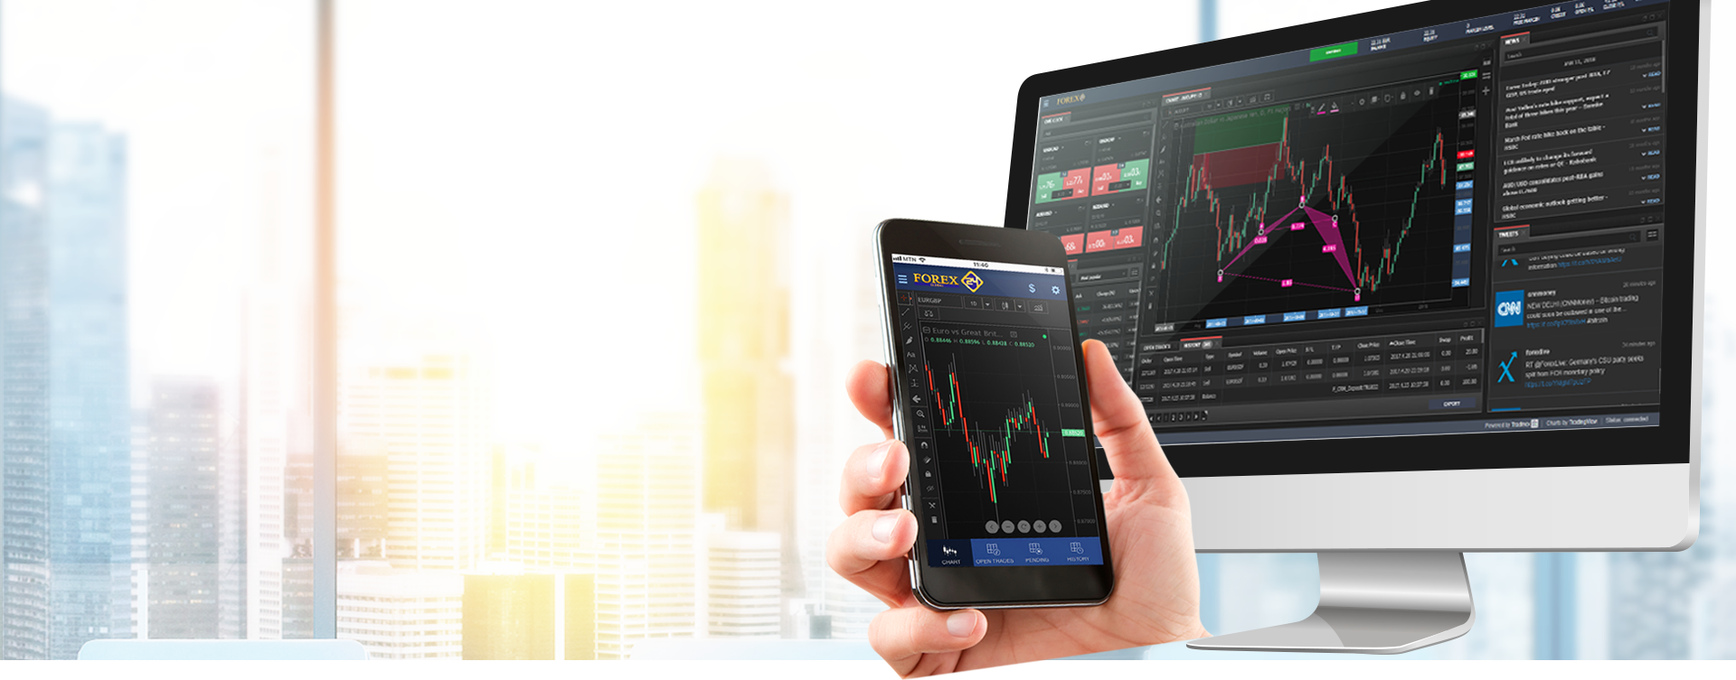
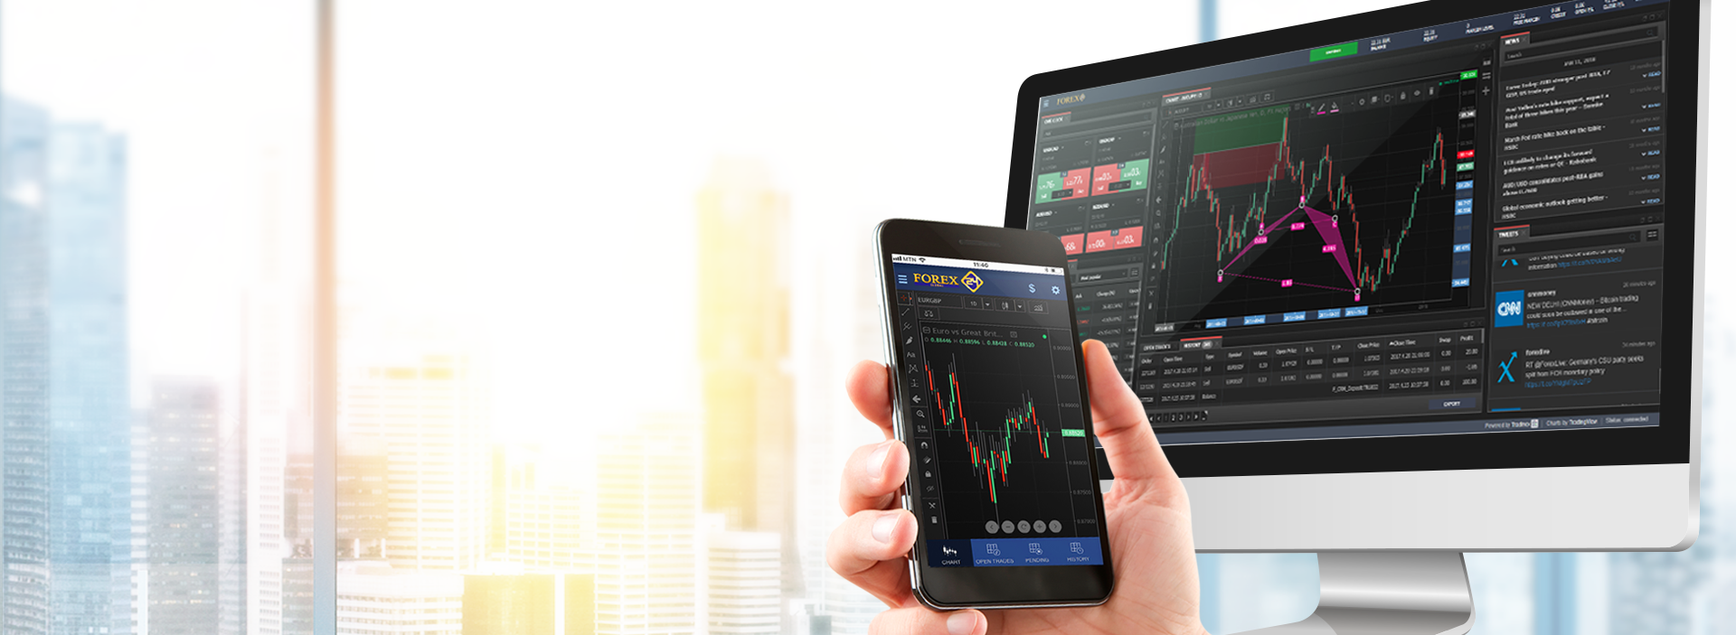
t

diff --git a/forex-lp/css/style.min.css b/forex-lp/css/style.min.css
@@ -1,1 +1,1 @@
-.acc,.app__top,.footer,.header__form b,.miss,.trading h1{text-align:center}.footer b,.form__btn,.miss__center,.trading h1 span{text-transform:uppercase}body{min-width:320px;margin:0}.container{width:1100px;margin:auto}.container--header{width:90%}.visually-hidden{position:absolute;clip:rect(0 0 0 0)}@media screen and (max-width:1200px){.container{width:95%}}@font-face{font-family:'SF UI Text';src:url(SFUIText-HeavyItalic.eot);src:local("SF UI Text Heavy Italic"),local("SFUIText-HeavyItalic"),url(SFUIText-HeavyItalic.eot?#iefix) format("embedded-opentype"),url(SFUIText-HeavyItalic.woff) format("woff"),url(SFUIText-HeavyItalic.ttf) format("truetype");font-weight:300;font-style:italic}@font-face{font-family:'SF UI Text';src:url(SFUIText-LightItalic.eot);src:local("SF UI Text Light Italic"),local("SFUIText-LightItalic"),url(SFUIText-LightItalic.eot?#iefix) format("embedded-opentype"),url(SFUIText-LightItalic.woff) format("woff"),url(SFUIText-LightItalic.ttf) format("truetype");font-weight:300;font-style:italic}@font-face{font-family:'SF UI Text';src:url(SFUIText-MediumItalic.eot);src:local("SF UI Text Medium Italic"),local("SFUIText-MediumItalic"),url(SFUIText-MediumItalic.eot?#iefix) format("embedded-opentype"),url(SFUIText-MediumItalic.woff) format("woff"),url(SFUIText-MediumItalic.ttf) format("truetype");font-weight:500;font-style:italic}@font-face{font-family:'SF UI Display';src:url(SFUIDisplay-Medium.eot);src:local("SF UI Display Medium"),local("SFUIDisplay-Medium"),url(SFUIDisplay-Medium.eot?#iefix) format("embedded-opentype"),url(SFUIDisplay-Medium.woff) format("woff"),url(SFUIDisplay-Medium.ttf) format("truetype");font-weight:500;font-style:normal}@font-face{font-family:'SF UI Display';src:url(SFUIDisplay-Regular.eot);src:local("SF UI Display Regular"),local("SFUIDisplay-Regular"),url(SFUIDisplay-Regular.eot?#iefix) format("embedded-opentype"),url(SFUIDisplay-Regular.woff) format("woff"),url(SFUIDisplay-Regular.ttf) format("truetype");font-weight:400;font-style:normal}@font-face{font-family:'SF UI Display';src:url(SFUIDisplay-Light.eot);src:local("SF UI Display Light"),local("SFUIDisplay-Light"),url(SFUIDisplay-Light.eot?#iefix) format("embedded-opentype"),url(SFUIDisplay-Light.woff) format("woff"),url(SFUIDisplay-Light.ttf) format("truetype");font-weight:300;font-style:normal}@font-face{font-family:'SF UI Display';src:url(SFUIDisplay-Thin.eot);src:local("SF UI Display Thin"),local("SFUIDisplay-Thin"),url(SFUIDisplay-Thin.eot?#iefix) format("embedded-opentype"),url(SFUIDisplay-Thin.woff) format("woff"),url(SFUIDisplay-Thin.ttf) format("truetype");font-weight:100;font-style:normal}@font-face{font-family:'SF UI Display';src:url(SFUIDisplay-Ultralight.eot);src:local("SF UI Display Ultralight"),local("SFUIDisplay-Ultralight"),url(SFUIDisplay-Ultralight.eot?#iefix) format("embedded-opentype"),url(SFUIDisplay-Ultralight.woff) format("woff"),url(SFUIDisplay-Ultralight.ttf) format("truetype");font-weight:100;font-style:normal}@font-face{font-family:'SF UI Text';src:url(SFUIText-Semibold.eot);src:local("SF UI Text Semibold"),local("SFUIText-Semibold"),url(SFUIText-Semibold.eot?#iefix) format("embedded-opentype"),url(SFUIText-Semibold.woff) format("woff"),url(SFUIText-Semibold.ttf) format("truetype");font-weight:600;font-style:normal}@font-face{font-family:'SF UI Display';src:url(SFUIDisplay-Semibold.eot);src:local("SF UI Display Semibold"),local("SFUIDisplay-Semibold"),url(SFUIDisplay-Semibold.eot?#iefix) format("embedded-opentype"),url(SFUIDisplay-Semibold.woff) format("woff"),url(SFUIDisplay-Semibold.ttf) format("truetype");font-weight:600;font-style:normal}@font-face{font-family:'SF UI Text';src:url(SFUIText-Regular.eot);src:local("SF UI Text Regular"),local("SFUIText-Regular"),url(SFUIText-Regular.eot?#iefix) format("embedded-opentype"),url(SFUIText-Regular.woff) format("woff"),url(SFUIText-Regular.ttf) format("truetype");font-weight:400;font-style:normal}@font-face{font-family:'SF UI Display';src:url(SFUIDisplay-Black.eot);src:local("SF UI Display Black"),local("SFUIDisplay-Black"),url(SFUIDisplay-Black.eot?#iefix) format("embedded-opentype"),url(SFUIDisplay-Black.woff) format("woff"),url(SFUIDisplay-Black.ttf) format("truetype");font-weight:300;font-style:normal}@font-face{font-family:'SF UI Text';src:url(SFUIText-BoldItalic.eot);src:local("SF UI Text Bold Italic"),local("SFUIText-BoldItalic"),url(SFUIText-BoldItalic.eot?#iefix) format("embedded-opentype"),url(SFUIText-BoldItalic.woff) format("woff"),url(SFUIText-BoldItalic.ttf) format("truetype");font-weight:700;font-style:italic}@font-face{font-family:'SF UI Text';src:url(SFUIText-Bold.eot);src:local("SF UI Text Bold"),local("SFUIText-Bold"),url(SFUIText-Bold.eot?#iefix) format("embedded-opentype"),url(SFUIText-Bold.woff) format("woff"),url(SFUIText-Bold.ttf) format("truetype");font-weight:700;font-style:normal}@font-face{font-family:'SF UI Display';src:url(SFUIDisplay-Heavy.eot);src:local("SF UI Display Heavy"),local("SFUIDisplay-Heavy"),url(SFUIDisplay-Heavy.eot?#iefix) format("embedded-opentype"),url(SFUIDisplay-Heavy.woff) format("woff"),url(SFUIDisplay-Heavy.ttf) format("truetype");font-weight:900;font-style:normal}@font-face{font-family:'SF UI Text';src:url(SFUIText-Light.eot);src:local("SF UI Text Light"),local("SFUIText-Light"),url(SFUIText-Light.eot?#iefix) format("embedded-opentype"),url(SFUIText-Light.woff) format("woff"),url(SFUIText-Light.ttf) format("truetype");font-weight:300;font-style:normal}@font-face{font-family:'SF UI Text';src:url(SFUIText-Heavy.eot);src:local("SF UI Text Heavy"),local("SFUIText-Heavy"),url(SFUIText-Heavy.eot?#iefix) format("embedded-opentype"),url(SFUIText-Heavy.woff) format("woff"),url(SFUIText-Heavy.ttf) format("truetype");font-weight:900;font-style:normal}@font-face{font-family:'SF UI Text';src:url(SFUIText-Medium.eot);src:local("SF UI Text Medium"),local("SFUIText-Medium"),url(SFUIText-Medium.eot?#iefix) format("embedded-opentype"),url(SFUIText-Medium.woff) format("woff"),url(SFUIText-Medium.ttf) format("truetype");font-weight:500;font-style:normal}@font-face{font-family:'SF UI Display';src:url(SFUIDisplay-Bold.eot);src:local("SF UI Display Bold"),local("SFUIDisplay-Bold"),url(SFUIDisplay-Bold.eot?#iefix) format("embedded-opentype"),url(SFUIDisplay-Bold.woff) format("woff"),url(SFUIDisplay-Bold.ttf) format("truetype");font-weight:700;font-style:normal}@font-face{font-family:'SF UI Text';src:url(SFUIText-Italic.eot);src:local("SF UI Text Italic"),local("SFUIText-Italic"),url(SFUIText-Italic.eot?#iefix) format("embedded-opentype"),url(SFUIText-Italic.woff) format("woff"),url(SFUIText-Italic.ttf) format("truetype");font-weight:400;font-style:italic}@font-face{font-family:'SF UI Text';src:url(SFUIText-SemiboldItalic.eot);src:local("SF UI Text Semibold Italic"),local("SFUIText-SemiboldItalic"),url(SFUIText-SemiboldItalic.eot?#iefix) format("embedded-opentype"),url(SFUIText-SemiboldItalic.woff) format("woff"),url(SFUIText-SemiboldItalic.ttf) format("truetype");font-weight:600;font-style:italic}.header{background:url(../img/header-bg.png) no-repeat #d1e2ed}.header img{margin:30px 0 50px}.header b{display:block;font-family:'SF UI Display Black'}.form label,.form__input input,.header small{font-family:'SF UI Display Regular'}.header small{display:block;padding:5px 0 80px 15px;color:#2f2861;font-size:14px}.header__title{width:490px;margin-bottom:50px;color:#2f2861;font-size:30px}.header__form{width:500px;padding:15px;background:#2f2861}.header__form b{margin-bottom:10px;color:#fff;font-size:24px}@media screen and (max-width:768px){.header img{display:block;width:320px;margin:0 auto auto;padding:50px 0}.header small{padding-bottom:50px}.header__title{width:auto;text-align:center}.header__form{width:auto;margin:auto}}.form__flex,.form__input{display:-webkit-box;display:-ms-flexbox}.form label{color:#fff;font-size:12px}.form__flex{display:flex;-webkit-box-pack:justify;-ms-flex-pack:justify;justify-content:space-between}.form__input{display:flex;-webkit-box-orient:vertical;-webkit-box-direction:normal;-ms-flex-direction:column;flex-direction:column}.form__input input{width:300px;margin-bottom:10px;padding:10px 15px;font-size:14px;border:2px solid #fff;border-radius:5px;outline:0}.form__btn{-ms-flex-item-align:center;align-self:center;width:130px;height:115px;color:#2f2861;font-size:20px;font-family:'SF UI Display Black';border:none;background:#f2c318;-webkit-box-shadow:5px 5px 1px 0 rgba(0,0,0,.5);box-shadow:5px 5px 1px 0 rgba(0,0,0,.5);cursor:pointer;-webkit-transition:.2s;transition:.2s}.form__btn:hover{-webkit-box-shadow:7px 7px 1px 0 rgba(0,0,0,.7);box-shadow:7px 7px 1px 0 rgba(0,0,0,.7)}@media screen and (max-width:768px){.form__btn,.form__input input{width:auto}.form__flex{-webkit-box-orient:vertical;-webkit-box-direction:normal;-ms-flex-direction:column;flex-direction:column}.form__btn{height:auto;margin-bottom:20px;padding:15px 40px;border-radius:5px}}.string{height:55px;background:#2f2861}.miss{color:#2f2861}.miss__top{margin-bottom:0;font-size:12px;font-family:'SF UI Display Regular'}.edge__box b,.miss__center{font-family:'SF UI Display';font-weight:700}.miss__center{margin:0;padding:70px 0;font-size:32px}.miss__center span{font-size:48px}@media screen and (max-width:1200px){.miss__center{padding:50px 0}}.edge{background:#dbd9e2}.edge__flex{display:-webkit-box;display:-ms-flexbox;display:flex;-webkit-box-pack:justify;-ms-flex-pack:justify;justify-content:space-between;padding:50px 0}.edge__box{width:300px;padding-top:70px;color:#4a4a4a}.edge__box b{font-size:20px}.edge__box p{margin-bottom:0;font-family:'SF UI Display Regular'}.edge__box--over{background:url(../img/edge-f.png) top left no-repeat}.edge__box--free{background:url(../img/edge-s.png) top left no-repeat}.edge__box--award{background:url(../img/edge-t.png) top left no-repeat}@media screen and (max-width:1200px){.edge__flex{-ms-flex-pack:distribute;justify-content:space-around}.edge__box{width:250px;text-align:center}.edge__box p{font-size:14px}.edge__box--over{background:url(../img/edge-f.png) top no-repeat}.edge__box--free{background:url(../img/edge-s.png) top no-repeat}.edge__box--award{background:url(../img/edge-t.png) top no-repeat}}@media screen and (max-width:768px){.edge__flex{-webkit-box-orient:vertical;-webkit-box-direction:normal;-ms-flex-direction:column;flex-direction:column;-webkit-box-align:center;-ms-flex-align:center;align-items:center}.edge__box{margin-bottom:30px}.edge__box--award{margin-bottom:0}}.app{padding:70px 0;background:url(../img/test.png) center no-repeat}.app__top{width:600px;margin:auto;color:#2f2861}.app__top b{font-size:30px;font-weight:700;font-family:'SF UI Display'}.app__top p{font-size:20px;font-family:'SF UI Display Regular'}.trading h1,.trading__flex ul{font-weight:700;font-family:'SF UI Display'}.app__top img{-webkit-transition:.3s;transition:.3s}.app__top img:hover{-webkit-transform:scale(1.1);transform:scale(1.1)}.app__bottom{width:auto;height:430px;margin:100px auto auto;background:url(../img/app.png) center no-repeat;background-size:contain}@media screen and (max-width:1200px){.app{padding:50px 0}}@media screen and (max-width:768px){.app__top{width:auto}.app__bottom{display:none}}.promo{padding:25px 0;background:#2f2861}.promo__logo{width:390px;height:124px;margin:auto;background:url(../img/logo.svg) center no-repeat}@media screen and (max-width:768px){.promo__logo{width:300px;background-size:contain}}.trading{padding:80px 0;background:#dbd9e2}.trading h1{margin-top:0;color:#4a4a4a;font-size:32px}.trading h1 span{color:#2f2861;font-size:48px}.trading__flex{display:-webkit-box;display:-ms-flexbox;display:flex;-webkit-box-pack:justify;-ms-flex-pack:justify;justify-content:space-between}.trading__flex ul{margin-bottom:0;color:#4a4a4a;font-size:18px;line-height:30px;background-size:100px 82px}.trading__flex ul li{padding:10px 0;border-bottom:1px solid #000;list-style-image:url(../img/li.svg);list-style-position:inside}.trading__flex ul p{margin-bottom:0;color:#2f2861;font-size:14px;font-weight:400;font-family:'SF UI Display Regular'}@media screen and (max-width:1200px){.trading{padding:50px 0}.trading h1{font-size:28px}}.acc a,.acc h1{font-size:32px}.acc{padding:80px 0}.acc h1{margin-top:0;margin-bottom:85px;color:#2f2861;font-weight:700;font-family:'SF UI Display'}.acc a{padding:25px;color:#323232;font-family:'SF UI Display Black';text-decoration:none;border-radius:47px;background:#f2c318;-webkit-transition:.2s;transition:.2s}.acc a:hover{padding:25px 50px}.acc p{margin-top:60px;color:#2f2861;font-size:16px;font-family:'SF UI Display Regular'}.acc__shadow{width:824px;height:43px;margin:85px auto auto;background:url(../img/shadow.png) center no-repeat}@media screen and (max-width:1200px){.acc{padding:50px 0}.acc__shadow{width:auto}}@media screen and (max-width:768px){.trading__flex{-webkit-box-orient:vertical;-webkit-box-direction:normal;-ms-flex-direction:column;flex-direction:column}.acc a,.acc a:hover{padding:15px}.acc a{font-size:19px}}.pay{padding:30px 0;background:#2f2861}.pay__methods{width:100%;height:58px;margin:auto;background:url(../img/pay.png) center no-repeat;background-size:contain}.footer{padding:40px 0;color:#fff;border-style:solid;border-width:3px 0 0;-o-border-image:url(../img/golden.png) 3 0 0 repeat;border-image:url(../img/golden.png) 3 0 0 repeat;background:#323232}.footer b{font-size:21px;font-family:'SF UI Display Black';opacity:.7}.footer p{font-size:13px;font-family:'SF UI Display Regular';opacity:.7}
+.acc,.app__top,.footer,.header__form b,.miss,.trading h1{text-align:center}.footer b,.form__btn,.miss__center,.trading h1 span{text-transform:uppercase}body{min-width:320px;margin:0}.container{width:1100px;margin:auto}.container--header{width:90%}.visually-hidden{position:absolute;clip:rect(0 0 0 0)}@media screen and (max-width:1200px){.container{width:95%}}@font-face{font-family:'SF UI Text';src:url(SFUIText-HeavyItalic.eot);src:local("SF UI Text Heavy Italic"),local("SFUIText-HeavyItalic"),url(SFUIText-HeavyItalic.eot?#iefix) format("embedded-opentype"),url(SFUIText-HeavyItalic.woff) format("woff"),url(SFUIText-HeavyItalic.ttf) format("truetype");font-weight:300;font-style:italic}@font-face{font-family:'SF UI Text';src:url(SFUIText-LightItalic.eot);src:local("SF UI Text Light Italic"),local("SFUIText-LightItalic"),url(SFUIText-LightItalic.eot?#iefix) format("embedded-opentype"),url(SFUIText-LightItalic.woff) format("woff"),url(SFUIText-LightItalic.ttf) format("truetype");font-weight:300;font-style:italic}@font-face{font-family:'SF UI Text';src:url(SFUIText-MediumItalic.eot);src:local("SF UI Text Medium Italic"),local("SFUIText-MediumItalic"),url(SFUIText-MediumItalic.eot?#iefix) format("embedded-opentype"),url(SFUIText-MediumItalic.woff) format("woff"),url(SFUIText-MediumItalic.ttf) format("truetype");font-weight:500;font-style:italic}@font-face{font-family:'SF UI Display';src:url(SFUIDisplay-Medium.eot);src:local("SF UI Display Medium"),local("SFUIDisplay-Medium"),url(SFUIDisplay-Medium.eot?#iefix) format("embedded-opentype"),url(SFUIDisplay-Medium.woff) format("woff"),url(SFUIDisplay-Medium.ttf) format("truetype");font-weight:500;font-style:normal}@font-face{font-family:'SF UI Display';src:url(SFUIDisplay-Regular.eot);src:local("SF UI Display Regular"),local("SFUIDisplay-Regular"),url(SFUIDisplay-Regular.eot?#iefix) format("embedded-opentype"),url(SFUIDisplay-Regular.woff) format("woff"),url(SFUIDisplay-Regular.ttf) format("truetype");font-weight:400;font-style:normal}@font-face{font-family:'SF UI Display';src:url(SFUIDisplay-Light.eot);src:local("SF UI Display Light"),local("SFUIDisplay-Light"),url(SFUIDisplay-Light.eot?#iefix) format("embedded-opentype"),url(SFUIDisplay-Light.woff) format("woff"),url(SFUIDisplay-Light.ttf) format("truetype");font-weight:300;font-style:normal}@font-face{font-family:'SF UI Display';src:url(SFUIDisplay-Thin.eot);src:local("SF UI Display Thin"),local("SFUIDisplay-Thin"),url(SFUIDisplay-Thin.eot?#iefix) format("embedded-opentype"),url(SFUIDisplay-Thin.woff) format("woff"),url(SFUIDisplay-Thin.ttf) format("truetype");font-weight:100;font-style:normal}@font-face{font-family:'SF UI Display';src:url(SFUIDisplay-Ultralight.eot);src:local("SF UI Display Ultralight"),local("SFUIDisplay-Ultralight"),url(SFUIDisplay-Ultralight.eot?#iefix) format("embedded-opentype"),url(SFUIDisplay-Ultralight.woff) format("woff"),url(SFUIDisplay-Ultralight.ttf) format("truetype");font-weight:100;font-style:normal}@font-face{font-family:'SF UI Text';src:url(SFUIText-Semibold.eot);src:local("SF UI Text Semibold"),local("SFUIText-Semibold"),url(SFUIText-Semibold.eot?#iefix) format("embedded-opentype"),url(SFUIText-Semibold.woff) format("woff"),url(SFUIText-Semibold.ttf) format("truetype");font-weight:600;font-style:normal}@font-face{font-family:'SF UI Display';src:url(SFUIDisplay-Semibold.eot);src:local("SF UI Display Semibold"),local("SFUIDisplay-Semibold"),url(SFUIDisplay-Semibold.eot?#iefix) format("embedded-opentype"),url(SFUIDisplay-Semibold.woff) format("woff"),url(SFUIDisplay-Semibold.ttf) format("truetype");font-weight:600;font-style:normal}@font-face{font-family:'SF UI Text';src:url(SFUIText-Regular.eot);src:local("SF UI Text Regular"),local("SFUIText-Regular"),url(SFUIText-Regular.eot?#iefix) format("embedded-opentype"),url(SFUIText-Regular.woff) format("woff"),url(SFUIText-Regular.ttf) format("truetype");font-weight:400;font-style:normal}@font-face{font-family:'SF UI Display';src:url(SFUIDisplay-Black.eot);src:local("SF UI Display Black"),local("SFUIDisplay-Black"),url(SFUIDisplay-Black.eot?#iefix) format("embedded-opentype"),url(SFUIDisplay-Black.woff) format("woff"),url(SFUIDisplay-Black.ttf) format("truetype");font-weight:300;font-style:normal}@font-face{font-family:'SF UI Text';src:url(SFUIText-BoldItalic.eot);src:local("SF UI Text Bold Italic"),local("SFUIText-BoldItalic"),url(SFUIText-BoldItalic.eot?#iefix) format("embedded-opentype"),url(SFUIText-BoldItalic.woff) format("woff"),url(SFUIText-BoldItalic.ttf) format("truetype");font-weight:700;font-style:italic}@font-face{font-family:'SF UI Text';src:url(SFUIText-Bold.eot);src:local("SF UI Text Bold"),local("SFUIText-Bold"),url(SFUIText-Bold.eot?#iefix) format("embedded-opentype"),url(SFUIText-Bold.woff) format("woff"),url(SFUIText-Bold.ttf) format("truetype");font-weight:700;font-style:normal}@font-face{font-family:'SF UI Display';src:url(SFUIDisplay-Heavy.eot);src:local("SF UI Display Heavy"),local("SFUIDisplay-Heavy"),url(SFUIDisplay-Heavy.eot?#iefix) format("embedded-opentype"),url(SFUIDisplay-Heavy.woff) format("woff"),url(SFUIDisplay-Heavy.ttf) format("truetype");font-weight:900;font-style:normal}@font-face{font-family:'SF UI Text';src:url(SFUIText-Light.eot);src:local("SF UI Text Light"),local("SFUIText-Light"),url(SFUIText-Light.eot?#iefix) format("embedded-opentype"),url(SFUIText-Light.woff) format("woff"),url(SFUIText-Light.ttf) format("truetype");font-weight:300;font-style:normal}@font-face{font-family:'SF UI Text';src:url(SFUIText-Heavy.eot);src:local("SF UI Text Heavy"),local("SFUIText-Heavy"),url(SFUIText-Heavy.eot?#iefix) format("embedded-opentype"),url(SFUIText-Heavy.woff) format("woff"),url(SFUIText-Heavy.ttf) format("truetype");font-weight:900;font-style:normal}@font-face{font-family:'SF UI Text';src:url(SFUIText-Medium.eot);src:local("SF UI Text Medium"),local("SFUIText-Medium"),url(SFUIText-Medium.eot?#iefix) format("embedded-opentype"),url(SFUIText-Medium.woff) format("woff"),url(SFUIText-Medium.ttf) format("truetype");font-weight:500;font-style:normal}@font-face{font-family:'SF UI Display';src:url(SFUIDisplay-Bold.eot);src:local("SF UI Display Bold"),local("SFUIDisplay-Bold"),url(SFUIDisplay-Bold.eot?#iefix) format("embedded-opentype"),url(SFUIDisplay-Bold.woff) format("woff"),url(SFUIDisplay-Bold.ttf) format("truetype");font-weight:700;font-style:normal}@font-face{font-family:'SF UI Text';src:url(SFUIText-Italic.eot);src:local("SF UI Text Italic"),local("SFUIText-Italic"),url(SFUIText-Italic.eot?#iefix) format("embedded-opentype"),url(SFUIText-Italic.woff) format("woff"),url(SFUIText-Italic.ttf) format("truetype");font-weight:400;font-style:italic}@font-face{font-family:'SF UI Text';src:url(SFUIText-SemiboldItalic.eot);src:local("SF UI Text Semibold Italic"),local("SFUIText-SemiboldItalic"),url(SFUIText-SemiboldItalic.eot?#iefix) format("embedded-opentype"),url(SFUIText-SemiboldItalic.woff) format("woff"),url(SFUIText-SemiboldItalic.ttf) format("truetype");font-weight:600;font-style:italic}.header{background:url(../img/header-bg.png) no-repeat #d1e2ed;background-size:cover}.header img{margin:30px 0 50px}.header b{display:block;font-family:'SF UI Display Black'}.form label,.form__input input,.header small{font-family:'SF UI Display Regular'}.header small{display:block;padding:5px 0 80px 15px;color:#2f2861;font-size:14px}.header__title{width:490px;margin-bottom:50px;color:#2f2861;font-size:30px}.header__form{width:500px;padding:15px;background:#2f2861}.header__form b{margin-bottom:10px;color:#fff;font-size:24px}@media screen and (max-width:768px){.header img{display:block;width:320px;margin:0 auto auto;padding:50px 0}.header small{padding-bottom:50px}.header__title{width:auto;text-align:center}.header__form{width:auto;margin:auto}}.form__flex,.form__input{display:-webkit-box;display:-ms-flexbox}.form label{color:#fff;font-size:12px}.form__flex{display:flex;-webkit-box-pack:justify;-ms-flex-pack:justify;justify-content:space-between}.form__input{display:flex;-webkit-box-orient:vertical;-webkit-box-direction:normal;-ms-flex-direction:column;flex-direction:column}.form__input input{width:300px;margin-bottom:10px;padding:10px 15px;font-size:14px;border:2px solid #fff;border-radius:5px;outline:0}.form__btn{-ms-flex-item-align:center;align-self:center;width:130px;height:115px;color:#2f2861;font-size:20px;font-family:'SF UI Display Black';border:none;background:#f2c318;-webkit-box-shadow:5px 5px 1px 0 rgba(0,0,0,.5);box-shadow:5px 5px 1px 0 rgba(0,0,0,.5);cursor:pointer;-webkit-transition:.2s;transition:.2s}.form__btn:hover{-webkit-box-shadow:7px 7px 1px 0 rgba(0,0,0,.7);box-shadow:7px 7px 1px 0 rgba(0,0,0,.7)}@media screen and (max-width:768px){.form__btn,.form__input input{width:auto}.form__flex{-webkit-box-orient:vertical;-webkit-box-direction:normal;-ms-flex-direction:column;flex-direction:column}.form__btn{height:auto;margin-bottom:20px;padding:15px 40px;border-radius:5px}}.string{height:55px;background:#2f2861}.miss{color:#2f2861}.miss__top{margin-bottom:0;font-size:12px;font-family:'SF UI Display Regular'}.edge__box b,.miss__center{font-family:'SF UI Display';font-weight:700}.miss__center{margin:0;padding:70px 0;font-size:32px}.miss__center span{font-size:48px}@media screen and (max-width:1200px){.miss__center{padding:50px 0}}.edge{background:#dbd9e2}.edge__flex{display:-webkit-box;display:-ms-flexbox;display:flex;-webkit-box-pack:justify;-ms-flex-pack:justify;justify-content:space-between;padding:50px 0}.edge__box{width:300px;padding-top:70px;color:#4a4a4a}.edge__box b{font-size:20px}.edge__box p{margin-bottom:0;font-family:'SF UI Display Regular'}.edge__box--over{background:url(../img/edge-f.png) top left no-repeat}.edge__box--free{background:url(../img/edge-s.png) top left no-repeat}.edge__box--award{background:url(../img/edge-t.png) top left no-repeat}@media screen and (max-width:1200px){.edge__flex{-ms-flex-pack:distribute;justify-content:space-around}.edge__box{width:250px;text-align:center}.edge__box p{font-size:14px}.edge__box--over{background:url(../img/edge-f.png) top no-repeat}.edge__box--free{background:url(../img/edge-s.png) top no-repeat}.edge__box--award{background:url(../img/edge-t.png) top no-repeat}}@media screen and (max-width:768px){.edge__flex{-webkit-box-orient:vertical;-webkit-box-direction:normal;-ms-flex-direction:column;flex-direction:column;-webkit-box-align:center;-ms-flex-align:center;align-items:center}.edge__box{margin-bottom:30px}.edge__box--award{margin-bottom:0}}.app{padding:70px 0;background:url(../img/test.png) center no-repeat}.app__top{width:600px;margin:auto;color:#2f2861}.app__top b{font-size:30px;font-weight:700;font-family:'SF UI Display'}.app__top p{font-size:20px;font-family:'SF UI Display Regular'}.trading h1,.trading__flex ul{font-weight:700;font-family:'SF UI Display'}.app__top img{-webkit-transition:.3s;transition:.3s}.app__top img:hover{-webkit-transform:scale(1.1);transform:scale(1.1)}.app__bottom{width:auto;height:430px;margin:100px auto auto;background:url(../img/app.png) center no-repeat;background-size:contain}@media screen and (max-width:1200px){.app{padding:50px 0}}@media screen and (max-width:768px){.app__top{width:auto}.app__bottom{display:none}}.promo{padding:25px 0;background:#2f2861}.promo__logo{width:390px;height:124px;margin:auto;background:url(../img/logo.svg) center no-repeat}@media screen and (max-width:768px){.promo__logo{width:300px;background-size:contain}}.trading{padding:80px 0;background:#dbd9e2}.trading h1{margin-top:0;color:#4a4a4a;font-size:32px}.trading h1 span{color:#2f2861;font-size:48px}.trading__flex{display:-webkit-box;display:-ms-flexbox;display:flex;-webkit-box-pack:justify;-ms-flex-pack:justify;justify-content:space-between}.trading__flex ul{margin-bottom:0;color:#4a4a4a;font-size:18px;line-height:30px;background-size:100px 82px}.trading__flex ul li{padding:10px 0;border-bottom:1px solid #000;list-style-image:url(../img/li.svg);list-style-position:inside}.trading__flex ul p{margin-bottom:0;color:#2f2861;font-size:14px;font-weight:400;font-family:'SF UI Display Regular'}@media screen and (max-width:1200px){.trading{padding:50px 0}.trading h1{font-size:28px}}.acc a,.acc h1{font-size:32px}.acc{padding:80px 0}.acc h1{margin-top:0;margin-bottom:85px;color:#2f2861;font-weight:700;font-family:'SF UI Display'}.acc a{padding:25px;color:#323232;font-family:'SF UI Display Black';text-decoration:none;border-radius:47px;background:#f2c318;-webkit-transition:.2s;transition:.2s}.acc a:hover{padding:25px 50px}.acc p{margin-top:60px;color:#2f2861;font-size:16px;font-family:'SF UI Display Regular'}.acc__shadow{width:824px;height:43px;margin:85px auto auto;background:url(../img/shadow.png) center no-repeat}@media screen and (max-width:1200px){.acc{padding:50px 0}.acc__shadow{width:auto}}@media screen and (max-width:768px){.trading__flex{-webkit-box-orient:vertical;-webkit-box-direction:normal;-ms-flex-direction:column;flex-direction:column}.acc a,.acc a:hover{padding:15px}.acc a{font-size:19px}}.pay{padding:30px 0;background:#2f2861}.pay__methods{width:100%;height:58px;margin:auto;background:url(../img/pay.png) center no-repeat;background-size:contain}.footer{padding:40px 0;color:#fff;border-style:solid;border-width:3px 0 0;-o-border-image:url(../img/golden.png) 3 0 0 repeat;border-image:url(../img/golden.png) 3 0 0 repeat;background:#323232}.footer b{font-size:21px;font-family:'SF UI Display Black';opacity:.7}.footer p{font-size:13px;font-family:'SF UI Display Regular';opacity:.7}

diff --git a/forex-lp/css/style.css b/forex-lp/css/style.css
@@ -165,7 +165,8 @@ body {
   font-style: italic; }
 
 .header {
-  background: #d1e2ed url("../img/header-bg.png") no-repeat; }
+  background: #d1e2ed url("../img/header-bg.png") no-repeat;
+  background-size: cover; }
   .header img {
     margin: 30px 0 50px 0; }
   .header b {

diff --git a/forex-lp/sass/blocks/header.scss b/forex-lp/sass/blocks/header.scss
@@ -1,5 +1,6 @@
 .header {
-  background: #d1e2ed url('../img/header-bg.png') no-repeat;  
+  background: #d1e2ed url('../img/header-bg.png') no-repeat;
+  background-size: cover; 
   
   & img {
     margin: 30px 0 50px 0;
